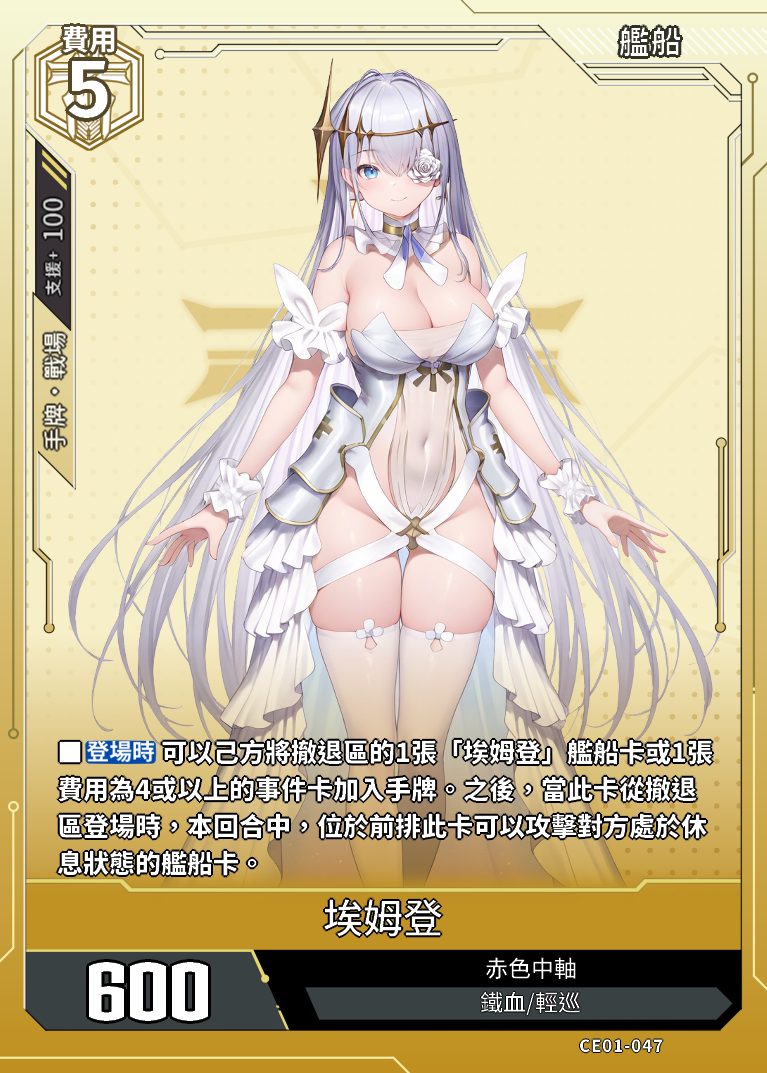
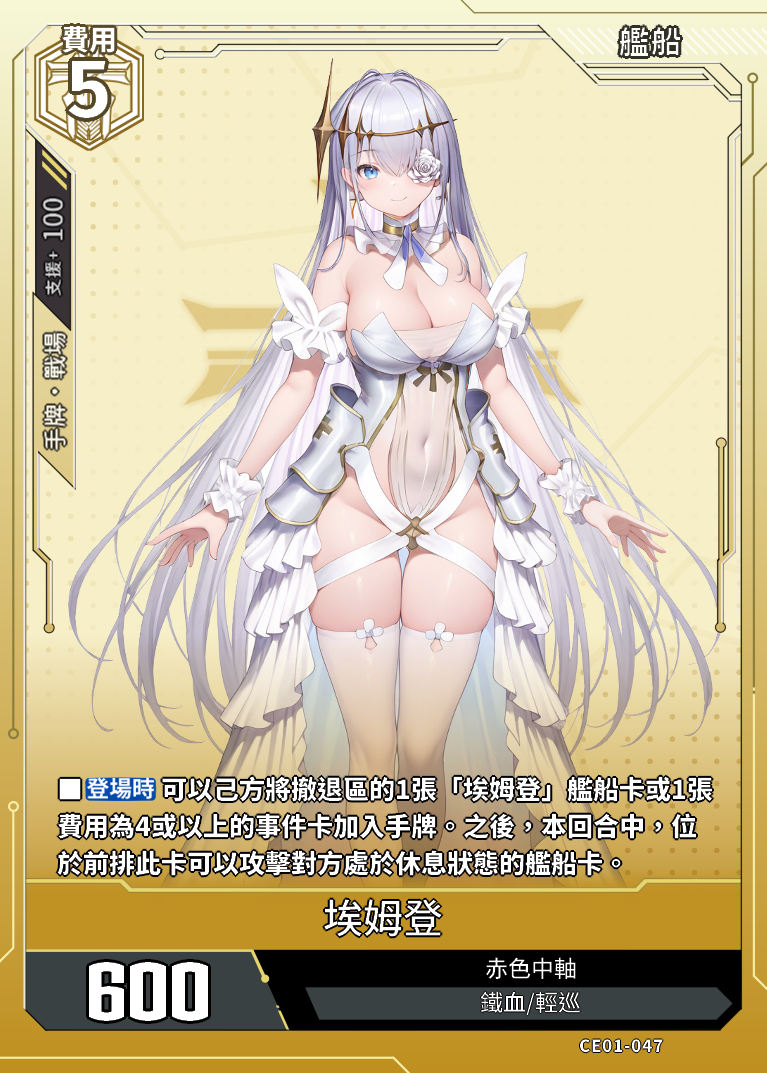
修改埃姆登技能

Changed region(s): [[0.06, 0.6766, 0.9296, 0.8304]]

diff --git a/data.js b/data.js
@@ -22778,7 +22778,7 @@ const cards = [
             "支援範圍": "手牌·戰場",
             "支援值": "100"
         },
-        "card_effect": "■【登場時】可以將己方撤退區的1張「埃姆登」艦船卡或1張費用為4或以上的事件卡加入手牌。之後，當此卡從撤退區登場時，本回合中，位於前排的此卡可以攻擊對方處於休息狀態的艦船卡。",
+        "card_effect": "■【登場時】可以將己方撤退區的1張「埃姆登」艦船卡或1張費用為4或以上的事件卡加入手牌。之後，本回合中，位於前排的此卡可以攻擊對方處於休息狀態的艦船卡。",
         "acquisition_method": "CE01"
     },
 	{
